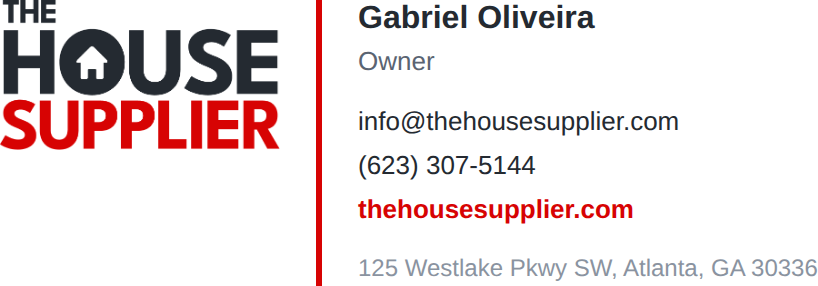
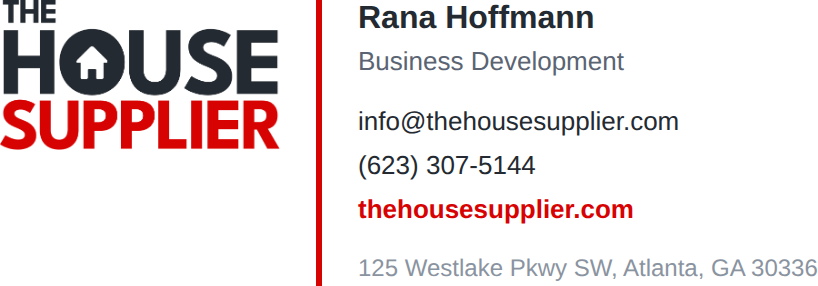
Assinatura: Rana Hoffmann, Business Development
Claude-Session: https://claude.ai/code/session_01UPWTXrstC2Sqk1zwCfCnhH

Changed region(s): [[0.4279, 0.0, 0.7335, 0.1119], [0.4279, 0.1678, 0.7641, 0.2517]]

diff --git a/assinatura_ths.html b/assinatura_ths.html
@@ -22,11 +22,11 @@
     <td valign="top" style="padding:0 0 0 18px;">
 
       <div style="font-size:16px;line-height:20px;font-weight:bold;color:#242A31;">
-        Gabriel Oliveira<!-- TROCAR: seu nome -->
+        Rana Hoffmann<!-- TROCAR: nome -->
       </div>
 
       <div style="font-size:13px;line-height:18px;color:#5A6472;padding-top:2px;">
-        Owner<!-- TROCAR: seu cargo -->
+        Business Development<!-- TROCAR: cargo -->
       </div>
 
       <div style="font-size:13px;line-height:22px;color:#242A31;padding-top:10px;">
